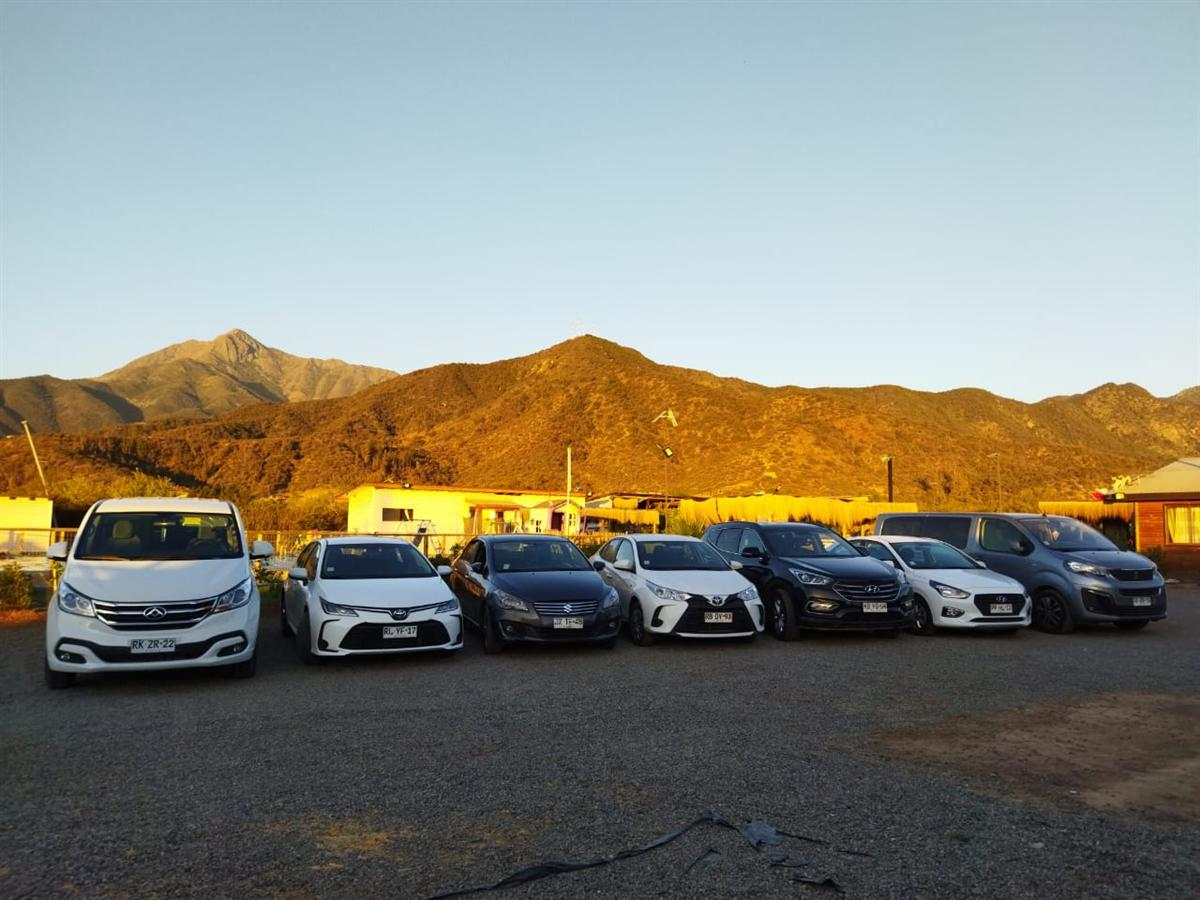
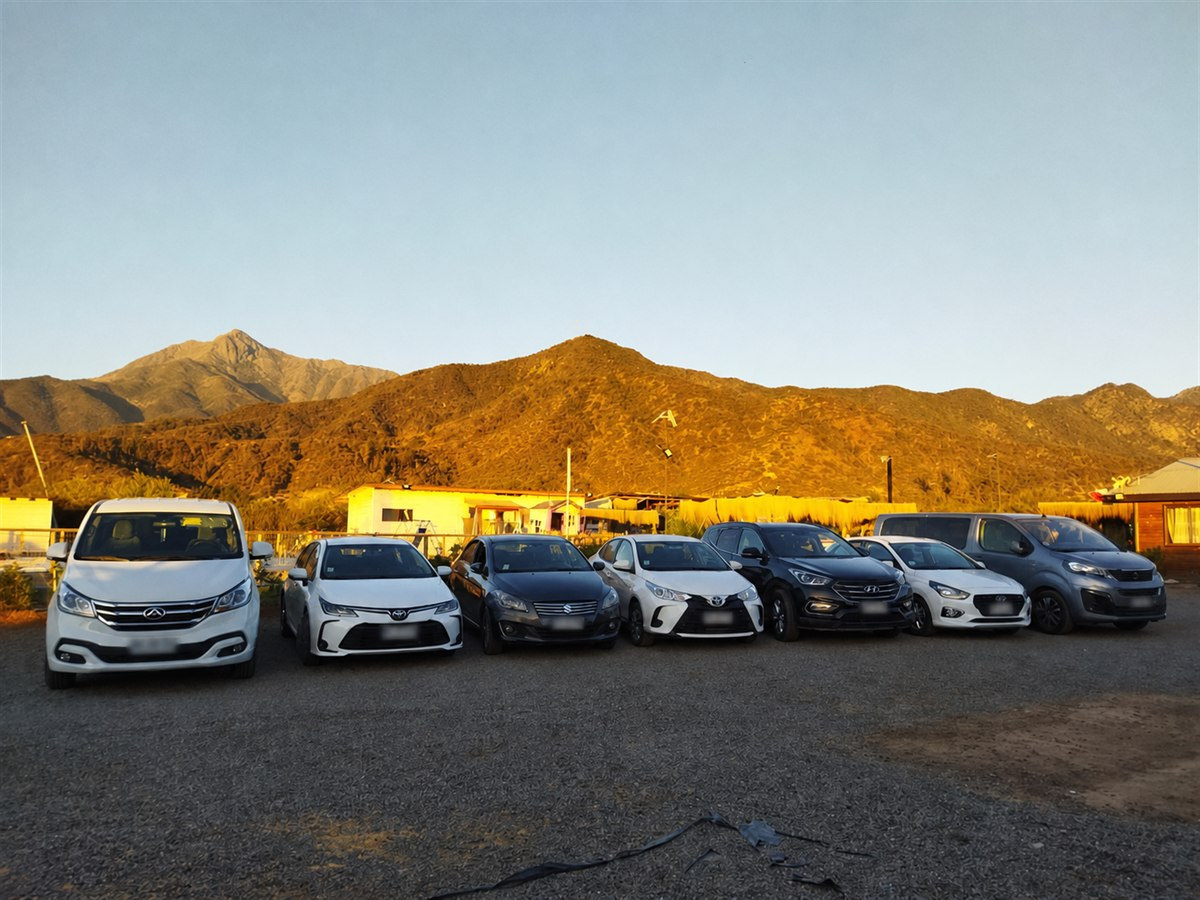
galería de imágenes rotativas en index

diff --git a/app/globals.css b/app/globals.css
@@ -197,6 +197,43 @@ textarea {
   width: 100%;
 }
 
+.hero-gallery {
+  height: 100%;
+  inset: 0;
+  position: absolute;
+  width: 100%;
+}
+
+.hero-media-slide {
+  animation: heroSlide 49s infinite;
+  opacity: 0;
+  transform: scale(1.01);
+}
+
+.hero-media-slide:nth-child(1) {
+  animation-delay: 0s;
+}
+
+.hero-media-slide:nth-child(2) {
+  animation-delay: 7s;
+}
+
+.hero-media-slide:nth-child(3) {
+  animation-delay: 14s;
+}
+
+.hero-media-slide:nth-child(4) {
+  animation-delay: 21s;
+}
+
+.hero-media-slide:nth-child(5) {
+  animation-delay: 28s;
+}
+
+.hero-media-slide:nth-child(6) {
+  animation-delay: 35s;
+}
+
 .hero-media img {
   object-fit: cover;
 }
@@ -631,6 +668,37 @@ textarea {
   to {
     opacity: 1;
     transform: translateY(0);
+  }
+}
+
+@keyframes heroSlide {
+  0%,
+  13% {
+    opacity: 1;
+    transform: scale(1.01);
+  }
+
+  16%,
+  97% {
+    opacity: 0;
+    transform: scale(1.04);
+  }
+
+  100% {
+    opacity: 1;
+    transform: scale(1.01);
+  }
+}
+
+@media (prefers-reduced-motion: reduce) {
+  .hero-media-slide {
+    animation: none;
+    opacity: 0;
+    transform: none;
+  }
+
+  .hero-media-slide:first-child {
+    opacity: 1;
   }
 }
 

diff --git a/components/Hero.tsx b/components/Hero.tsx
@@ -6,15 +6,32 @@ type HeroProps = {
   badge: string;
   title: string;
   text: string;
-  image: ImageKey;
+  image: ImageKey | readonly ImageKey[];
   compact?: boolean;
   children?: ReactNode;
 };
 
 export function Hero({ badge, title, text, image, compact = false, children }: HeroProps) {
+  const images = Array.isArray(image) ? image : [image];
+
   return (
     <section className={`hero ${compact ? "hero-compact" : ""}`}>
-      <PictureImage image={image} alt="" className="hero-media" priority />
+      {images.length > 1 ? (
+        <div className="hero-gallery" aria-hidden="true">
+          {images.map((item, index) => (
+            <PictureImage
+              image={item}
+              alt=""
+              className="hero-media hero-media-slide"
+              priority={index === 0}
+              sizes="100vw"
+              key={item}
+            />
+          ))}
+        </div>
+      ) : (
+        <PictureImage image={images[0]} alt="" className="hero-media" priority sizes="100vw" />
+      )}
       <div className="container hero-inner">
         <div className="hero-content">
           <span className="hero-badge">{badge}</span>

diff --git a/app/page.tsx b/app/page.tsx
@@ -5,7 +5,7 @@ import { Cta } from "@/components/Cta";
 import { Hero } from "@/components/Hero";
 import { ServiceGrid } from "@/components/ServiceGrid";
 import { Stats } from "@/components/Stats";
-import { homeServices, navItems, site } from "@/lib/site";
+import { homeHeroImages, homeServices, navItems, site } from "@/lib/site";
 
 export const metadata: Metadata = {
   alternates: { canonical: "/" },
@@ -79,7 +79,7 @@ export default function HomePage() {
         badge="Servicios de Transporte Premium"
         title="Tu Mejor Experiencia de Transporte en Chile"
         text="Contamos con más de 20 años de experiencia ofreciendo servicios de transfer, turismo y viajes especiales con calidad, compromiso y puntualidad."
-        image="home"
+        image={homeHeroImages}
       >
         <div className="hero-buttons">
           <a href={site.whatsapp} className="btn-hero btn-hero-primary" target="_blank" rel="noreferrer">

diff --git a/components/PictureImage.tsx b/components/PictureImage.tsx
@@ -5,9 +5,16 @@ type PictureImageProps = {
   alt: string;
   className?: string;
   priority?: boolean;
+  sizes?: string;
 };
 
-export function PictureImage({ image, alt, className, priority = false }: PictureImageProps) {
+export function PictureImage({
+  image,
+  alt,
+  className,
+  priority = false,
+  sizes = "(max-width: 700px) 100vw, (max-width: 1100px) 50vw, 1200px"
+}: PictureImageProps) {
   const name = imageMap[image];
 
   return (
@@ -15,7 +22,7 @@ export function PictureImage({ image, alt, className, priority = false }: Pictur
       <source
         type="image/jpeg"
         srcSet={`/img/${name}-480.jpg 480w, /img/${name}-800.jpg 800w, /img/${name}-1200.jpg 1200w`}
-        sizes="(max-width: 700px) 100vw, (max-width: 1100px) 50vw, 1200px"
+        sizes={sizes}
       />
       <img
         src={`/img/${name}-800.jpg`}

diff --git a/lib/site.ts b/lib/site.ts
@@ -30,6 +30,11 @@ export const imageMap = {
   celebraciones: "celebraciones",
   convenio: "convenio_emp",
   graduaciones: "graduaciones",
+  homeCostaMatrimonio: "home-costa-matrimonio",
+  homeValparaisoIglesia: "home-valparaiso-iglesia",
+  homeValparaisoMatrimonio: "home-valparaiso-matrimonio",
+  homeVinaInvitados: "home-vina-invitados",
+  homeVinaPlaya: "home-vina-playa",
   home: "index1",
   matrimonios: "matri1",
   mision: "mision",
@@ -39,6 +44,15 @@ export const imageMap = {
 } as const;
 
 export type ImageKey = keyof typeof imageMap;
+
+export const homeHeroImages = [
+  "home",
+  "homeValparaisoMatrimonio",
+  "homeVinaInvitados",
+  "homeCostaMatrimonio",
+  "homeValparaisoIglesia",
+  "homeVinaPlaya"
+] as const satisfies readonly ImageKey[];
 
 export type ServiceCard = {
   title: string;

diff --git a/next-env.d.ts b/next-env.d.ts
@@ -1,7 +1,7 @@
 /// <reference types="next" />
 /// <reference types="next/image-types/global" />
-import "./.next/types/routes.d.ts";
-import "./.next/types/root-params.d.ts";
+import "./dist/dev/types/routes.d.ts";
+import "./dist/dev/types/root-params.d.ts";
 
 // NOTE: This file should not be edited
 // see https://nextjs.org/docs/app/api-reference/config/typescript for more information.
